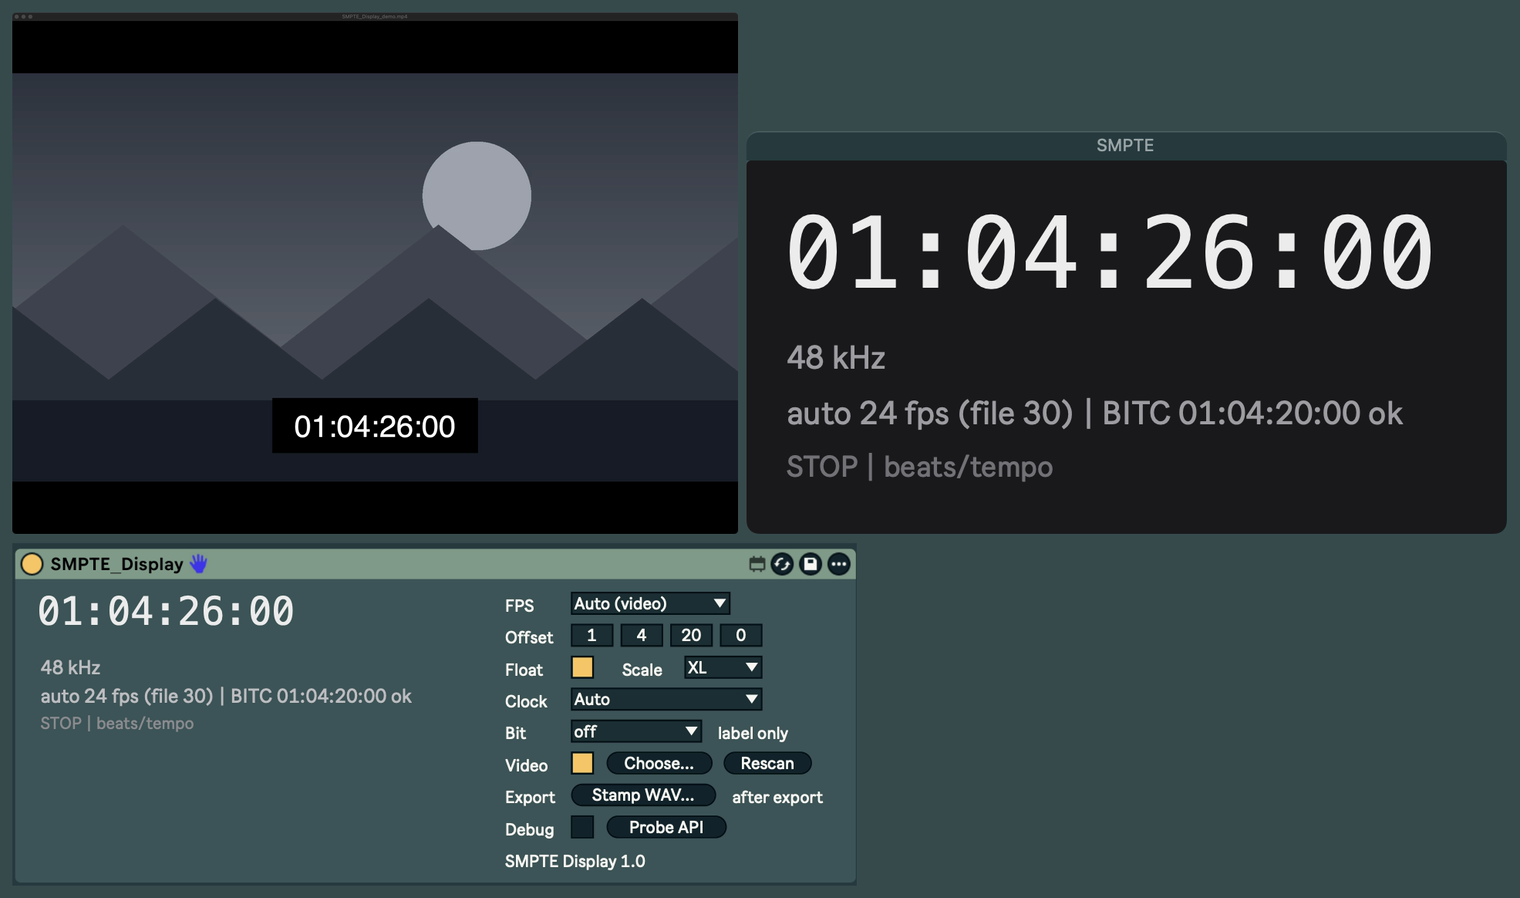
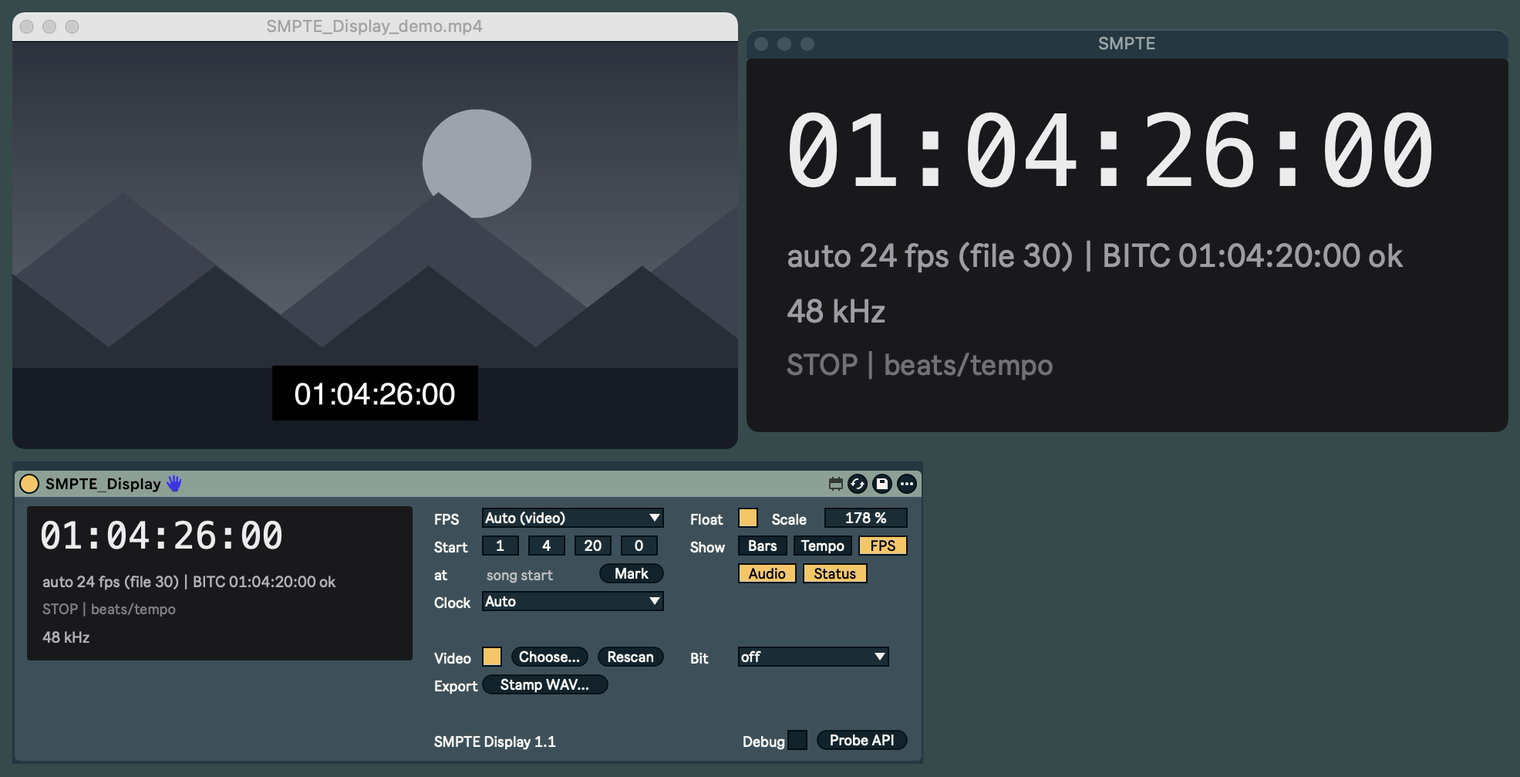
SMPTE Display 1.1 docs: Start TC on a chosen bar, Display lines, Display Scale
README (KO/EN), changelog and screenshot for 1.1.

diff --git a/README.en.md b/README.en.md
@@ -4,7 +4,7 @@
 
 **A Max for Live device for use with Ableton Live 12** that shows SMPTE timecode in a floating window over the Arrangement View — type a timecode to jump straight there.
 
-[![Version](https://img.shields.io/badge/version-1.0-blue)](https://github.com/emile-lab/SMPTE-Display/releases/latest)
+[![Version](https://img.shields.io/badge/version-1.1-blue)](https://github.com/emile-lab/SMPTE-Display/releases/latest)
 [![Requires Ableton Live 12 + Max for Live](https://img.shields.io/badge/requires-Ableton%20Live%2012%20%2B%20Max%20for%20Live-black)](https://www.ableton.com/live/max-for-live/)
 [![macOS](https://img.shields.io/badge/macOS-11%2B-lightgrey)](#requirements)
 [![License](https://img.shields.io/badge/license-All%20Rights%20Reserved-red)](LICENSE)
@@ -13,14 +13,14 @@
 
 <img src="docs/images/screenshot.png" alt="SMPTE Display floating window and device panel" width="760">
 
-### [⬇ Download 1.0](https://github.com/emile-lab/SMPTE-Display/releases/latest)
+### [⬇ Download 1.1](https://github.com/emile-lab/SMPTE-Display/releases/latest)
 
 <sub>By downloading or using SMPTE Display you agree to the [LICENSE](LICENSE).</sub>
 
 </div>
 
 > [!NOTE]
-> Bug reports and feedback are welcome in [Issues](https://github.com/emile-lab/SMPTE-Display/issues/new/choose). The device panel shows the version at the bottom (`SMPTE Display 1.0`).
+> Bug reports and feedback are welcome in [Issues](https://github.com/emile-lab/SMPTE-Display/issues/new/choose). The device panel shows the version at the bottom (`SMPTE Display 1.1`).
 
 ---
 
@@ -28,10 +28,11 @@
 
 | Feature | Description |
 |---|---|
-| 🕒 **Floating timecode window** | Shows the current position as `HH:MM:SS:FF` in a small window above Live. Sizes S / M / L / XL. |
+| 🕒 **Floating timecode window** | Shows the current position as `HH:MM:SS:FF` in a small window above Live. Pick which lines to show (bars, tempo, FPS, audio, status) and drag the window corner to resize it (50–400 %). |
+| 📍 **Start TC on any bar** | The locator whose name starts with `SMPTE` is where the Start TC (e.g. `01:00:00:00`) sits. Click a bar and press **Mark** to create it; drag the locator and the timecode follows. The bars before it run as pre-roll (`00:59:52:00` …). |
 | ⌨ **Locate by timecode** | Click the window, type `01:23:45:12`, press **Enter** to jump. **Space** jumps and starts playback. |
 | 🎬 **Video FPS detection** | Uses the frame rate of the video clip (MOV / MP4 / M4V) in your Arrangement. |
-| 🔎 **Burned-in timecode (BITC) reading** | Reads the timecode printed in the video picture, sets the Offset and FPS for you, and shows `sync OK` while playing. Follows the on-screen timecode **even when it runs at another rate than the file** (e.g. 24 fps burn-in in a 30 fps file). *(macOS)* |
+| 🔎 **Burned-in timecode (BITC) reading** | Reads the timecode printed in the video picture, sets the Start TC and FPS for you, and shows `sync OK` while playing. Follows the on-screen timecode **even when it runs at another rate than the file** (e.g. 24 fps burn-in in a 30 fps file). *(macOS)* |
 | 📤 **Export timecode** | Writes a standard BWF timestamp (EBU Tech 3285) into WAV files exported from Live, so editors and DAWs that spot files to their original timestamp place them at the picture's timecode. Your Live Set is not touched. |
 | 🎯 **Frame accurate** | Even when you stop or click exactly on a frame boundary, the display shows the same frame as Live's video window. The playhead is never moved, so your clip selection stays put. |
 | 📈 **Tempo automation aware** | Displays and locates by real elapsed time, even across tempo ramps. |
@@ -50,13 +51,13 @@ Frame rates: 23.976 · 24 · 25 · 29.97 (NDF / DF) · 30 · 50 · 59.94 (NDF / 
 ## Install (3 steps)
 
 **1. Download and unzip.**
-Get `SMPTE_Display_1.0.zip` from [Releases](https://github.com/emile-lab/SMPTE-Display/releases/latest) and unzip it.
+Get `SMPTE_Display_1.1.zip` from [Releases](https://github.com/emile-lab/SMPTE-Display/releases/latest) and unzip it.
 
 **2. Remove the macOS quarantine flag.** *(needed for burned-in timecode reading)*
 macOS quarantines downloaded files, which stops the timecode reader (`bitc_reader`) from running. Open **Terminal** and run the command below, adjusting the path to where you unzipped it:
 
 ```bash
-xattr -dr com.apple.quarantine ~/Downloads/SMPTE_Display_1.0
+xattr -dr com.apple.quarantine ~/Downloads/SMPTE_Display_1.1
 ```
 
 **3. Copy to your User Library and add it to a track.**
@@ -96,13 +97,27 @@ xattr -dr com.apple.quarantine ~/Downloads/SMPTE_Display_1.0
 | **Space** (not typing) | Play / stop |
 | **Esc** | Cancel input (also cancels after 10 s without typing). |
 
+### Start TC on a chosen bar
+
+To put `01:00:00:00` on bar 5 and use the bars before it as pre-roll, as in film work:
+
+1. Set **FPS** and **Start** (e.g. `01:00:00:00`).
+2. Stop playback, click bar 5 in the Arrangement and press **Mark**. A locator named `SMPTE 01:00:00:00` appears there.
+3. Bar 5 now reads `01:00:00:00` and bar 1 reads that much earlier (`00:59:52:00` at 120 BPM in 4/4). Drag the locator and the timecode follows; Undo works as usual.
+
+- You can also make the locator yourself, with any name that starts with `SMPTE` (e.g. `SMPTE reel 2`). With several, the earliest one is used.
+- When you change Start, a name the device gave (`SMPTE 01:00:00:00`) follows it; a name you typed is kept. The device never deletes or moves a locator.
+- Without such a locator the song start is the reference (like the Offset in 1.0).
+- With tempo automation, playback has to pass the locator once before its time is exact; until then the status line shows `~ start (play past the SMPTE locator)`.
+
 ### Device controls
 
 | Control | Description |
 |---|---|
 | **FPS** | Timecode frame rate. `Auto (video)` follows the burned-in timecode, else the video file. |
-| **Offset** | Timecode at timeline zero (e.g. `01:00:00:00`). Set automatically when burned-in timecode is found. |
-| **Float** / **Scale** | Floating window on/off / size (S · M · L · XL) |
+| **Start** / **Mark** | Start TC: the timecode at the `SMPTE` locator, or at the song start without one (e.g. `01:00:00:00`). **Mark** creates that locator at the bar you clicked. Set automatically when burned-in timecode is found. |
+| **Float** / **Scale** | Floating window on/off / size 50–400 %. Drag the number or the window corner. |
+| **Show** | Lines in the floating window: **Bars**, **Tempo** (tempo and time signature), **FPS**, **Audio**, **Status**. All off leaves the timecode alone. |
 | **Clock** | How time is computed. Leave on `Auto` in most cases. |
 | **Bit** | Bit-depth label for display only — Live does not expose the real value. |
 | **Choose…** / **Rescan** | Pick a video file yourself / search the Arrangement for video again. |
@@ -110,11 +125,11 @@ xattr -dr com.apple.quarantine ~/Downloads/SMPTE_Display_1.0
 
 ## Burned-in timecode (BITC) — macOS
 
-If the video picture has a timecode burned in, the device reads eleven frames and **sets the Offset automatically.** The on-screen timecode wins when it runs at another rate than the file (e.g. a 24 fps edit exported as 30 fps, repeating every 5th frame): FPS `Auto` uses the on-screen rate, and inside the video clip the display shows **exactly what the picture shows, repeated frames included.** Typing a timecode goes to the first frame that shows it.
+If the video picture has a timecode burned in, the device reads eleven frames and **sets the Start TC automatically.** With an `SMPTE` locator, the burned-in timecode at that locator becomes the Start TC. The on-screen timecode wins when it runs at another rate than the file (e.g. a 24 fps edit exported as 30 fps, repeating every 5th frame): FPS `Auto` uses the on-screen rate, and inside the video clip the display shows **exactly what the picture shows, repeated frames included.** Typing a timecode goes to the first frame that shows it.
 
 | Info line | Meaning |
 |---|---|
-| `BITC 00:59:56:00 ok` | Read successfully; Offset applied. |
+| `BITC 00:59:56:00 ok` | Read successfully; Start TC applied. |
 | `auto 24 fps (file 30)` | The picture counts 24 fps, the file is 30 fps; the display follows the picture. |
 | `BITC mismatch 8/11` | Readings disagree; nothing applied. |
 | `BITC 24 fps != 30 fps` | You chose an FPS that differs from the burn-in. Set FPS to `Auto (video)` and it follows the picture at once. |
@@ -122,7 +137,7 @@ If the video picture has a timecode burned in, the device reads eleven frames an
 | `sync OK` / `sync +2 fr` | Sync status during playback (checked about every 5 s). |
 | `clip off frame grid` | The video clip sits between frame boundaries. Turn on snap and align it to the grid. |
 
-When you reopen a saved Set, **the saved Offset is kept**, so a value you adjusted by hand survives. Press **Rescan** to apply the burn-in value instead.
+When you reopen a saved Set, **the saved Start TC is kept**, so a value you adjusted by hand survives. Press **Rescan** to apply the burn-in value instead.
 
 ## Export timecode (BWF timestamp)
 
@@ -133,7 +148,7 @@ WAV files exported by Live carry no timecode, so editors and other DAWs put them
 3. The status line shows the result, e.g. `TC 01:04:23:10 stamped: 5 WAVs (video clip)`. The names of the stamped files go to the Max Console.
 
 - **Your Live Set is not changed** — clips, automation and track sync stay exactly as they are, and the audio data is not altered by a single byte. Only timecode information is added to the files.
-- The timestamp is **sample-accurate**: it is the first sample inside the labelled frame. When the Offset came from the burned-in timecode, it is computed from the video's actual position, even for a clip placed between frame lines.
+- The timestamp is **sample-accurate**: it is the first sample inside the labelled frame. When the Start TC came from the burned-in timecode, it is computed from the video's actual position, even for a clip placed between frame lines.
 - **Finding the Render Start:** Live does not tell devices the export range.
   - A time selection moves the start marker to its start, so the **start marker** is used.
   - An export whose length equals the whole Set starts at **0**.
@@ -199,9 +214,9 @@ WAV files exported by Live carry no timecode, so editors and other DAWs put them
 </details>
 
 <details>
-<summary><b>The status line says <code>offset invalid</code></b></summary>
+<summary><b>The status line says <code>start TC invalid</code></b></summary>
 
-The Offset's frame value is beyond the selected FPS (e.g. frame 30 at 24 fps). Typed timecodes are refused until it is fixed. Correct the last (frame) field of the Offset.
+The Start frame value is beyond the selected FPS (e.g. frame 30 at 24 fps). Typed timecodes and Mark are refused until it is fixed. Correct the last (frame) field of Start.
 </details>
 
 <details>

diff --git a/CHANGELOG.md b/CHANGELOG.md
@@ -1,5 +1,53 @@
 # 변경 내역 · Changelog
 
+## 1.1 — 2026-11-17
+
+Start TC를 원하는 마디에 둘 수 있고, 플로팅 창에 띄울 정보와 크기를 고를 수 있습니다.
+
+### 새 기능
+- **원하는 마디에 Start TC.** 이름이 `SMPTE`로 시작하는 Arrangement 로케이터 자리가 Start TC가 됩니다(1.0의 Offset). 재생을 멈추고 마디를 클릭한 뒤 **Mark**를 누르면 그 자리에 `SMPTE 01:00:00:00` 로케이터가 생깁니다. 로케이터를 끌어 옮기면 기준도 따라가고, Live의 Undo로 되돌릴 수 있습니다. 로케이터가 없으면 1.0처럼 노래 시작이 기준입니다.
+- Start를 바꾸면 디바이스가 붙인 로케이터 이름도 따라 바뀝니다. 직접 붙인 이름(예: `SMPTE reel 2`)은 그대로 둡니다. 디바이스는 로케이터를 지우거나 옮기지 않습니다.
+- 번인 타임코드: 로케이터가 있으면 그 자리의 번인 타임코드가 Start TC가 되고, 번인 값을 쓰는 동안 로케이터를 옮기면 따라갑니다.
+- 템포 오토메이션이 있는 곡에서도 로케이터에서 정확히 Start TC로 바뀝니다. 재생이 로케이터를 한 번 지나가기 전에는 상태 줄에 `~ start (play past the SMPTE locator)`가 보입니다.
+- **Display 항목.** 플로팅 창에 띄울 줄을 고릅니다: Bars(`5.1.1`), Tempo(`120 BPM  4/4`), FPS, Audio, Status. 모두 끄면 타임코드만 남습니다.
+- **Display Scale.** S / M / L / XL 메뉴 대신 50–400 %입니다. 패널 숫자를 끌거나 창 모서리를 끌어 바꾸고, 손을 떼면 창이 그 크기의 배치에 맞춰집니다(Undo 한 단계).
+- 디바이스 패널을 다시 배치했습니다. 버튼 설명은 Live의 Info View에 나옵니다.
+
+### 수정
+- 템포 오토메이션 구간을 재생하며 잰 시간이 약 16 ms 늦던 문제. 이동, 번인 Start TC, Stamp WAV에 영향이 있었습니다.
+- 템포 오토메이션 구간에서 이동하는 중에 재생을 누르면 시작 위치가 늦던 문제.
+- Start가 저장된 Set을 영상 없이 연 뒤 영상을 넣으면, 첫 번인 타임코드가 적용되지 않던 문제.
+- FPS 메뉴를 번인과 같은 레이트로 바꿔도 손으로 맞춘 Start를 덮어쓰지 않습니다. 번인 값은 FPS를 `Auto (video)`로 돌릴 때 적용됩니다.
+- 같은 영상이 두 트랙에 있으면 가장 앞의 클립을 기준으로 합니다.
+- VideoAuto를 끄면 찾았던 영상 정보를 지웁니다.
+- 템포 오토메이션 구간에서 Set 끝 너머로 이동하면 Set을 필요한 만큼만 늘립니다. 이전에는 Set 길이가 두 배가 될 수 있었습니다.
+- 템포 오토메이션 구간에서 재생 중 이동할 때 Live가 멈추지 않으면, 소리가 나는 동안 재생 헤드를 여러 번 옮기지 않고 `could not stop playback for the seek`를 보여 줍니다.
+- 디바이스를 다시 불러오면 진행 중이던 이동을 버립니다. 이전에는 표시가 멈추거나, 나중에 Enter만 눌러도 재생이 시작될 수 있었습니다.
+
+### 1.0에서 업데이트할 때
+- Offset 값은 Start로 그대로 이어집니다. `SMPTE` 로케이터가 없으면 동작도 1.0과 같습니다.
+- Scale 설정은 100 %(1.0의 M)로 돌아갑니다.
+- 플로팅 창의 줄 순서가 Audio → FPS에서 FPS → Audio로 바뀌었습니다.
+- Set에 있는 디바이스를 지우고 다시 올려 주세요. 패널 아래쪽에 `SMPTE Display 1.1`이 보이면 새 버전입니다.
+
+### 검증
+- 단위 테스트 221개 통과.
+- 실제 Ableton Live 12.4.6 · Max 9.1.5(macOS 15.7, Apple Silicon)에서 자동 통합 테스트: Max Console 에러 0건, 정지 위치 비교 1개(아래 알려진 한계)를 뺀 자동 판정 항목 모두 통과. 실제 키 입력이나 모니터 분리처럼 자동화할 수 없는 9개는 1.0과 같은 수동 확인 항목입니다.
+- 로케이터를 마우스로 끌어 옮기기와 Live의 Undo, 창 모서리를 아주 크게 끌고 멈췄다 놓기, 패널의 Scale 숫자를 400 %까지 끌기는 실제 Live에서 마우스로 확인했습니다.
+
+### 알려진 한계
+- 프레임이 끝나기 전 약 15 ms 안에서 정지하면 Live 영상 창이 1프레임 앞을 보여 줄 때가 있습니다(1.0과 같음).
+
+### What's new in 1.1 (English)
+- **Start TC on any bar.** The Arrangement locator whose name starts with `SMPTE` is where the Start TC (the Offset in 1.0) sits. Stop, click a bar and press **Mark** to create `SMPTE 01:00:00:00` there. Drag the locator and the timecode follows; Live's Undo works. Without such a locator the song start is the reference, as in 1.0. A name the device gave follows Start; a name you typed is kept. The device never deletes or moves a locator.
+- Burned-in timecode: with a locator, the burn-in label at the locator becomes the Start TC and follows the locator while the burn-in value is in use. With tempo automation the switch to Start TC is exact once playback has passed the locator.
+- **Display lines.** Pick what the floating window shows: Bars, Tempo, FPS, Audio, Status. All off leaves the timecode alone.
+- **Display Scale.** 50–400 % instead of S / M / L / XL. Drag the panel number or the window corner; the window settles on the matching layout when you let go (one Undo step).
+- Redesigned device panel; control hints are in Live's Info View.
+- Fixed: tempo-ramp timing measured during playback ran about 16 ms late; a late start after pressing play during a tempo-ramp locate; the first burn-in not applied when a Set saved with a Start TC was opened without video; the FPS menu overwriting a hand-set Start; two copies of a movie on two tracks (the earliest clip now wins); VideoAuto off keeping video state; locates past the Set end doubling the Set under tempo automation; repeated playhead moves when Live would not stop; a stuck display after a device reload.
+- Tested in Ableton Live 12.4.6 with Max 9.1.5 (macOS 15.7, Apple Silicon): 221 unit tests pass; every automated check in Live passes except one stop-position comparison (the known limitation), with no Max Console errors. Dragging the locator with the mouse, Live's Undo, dragging the window corner very large and holding it still, and dragging Scale to 400 % were checked by hand in Live.
+- Updating from 1.0: the Offset carries over as Start; Scale resets to 100 % (the old M); the window shows FPS above Audio. Delete and re-add the device in your Set; the panel shows `SMPTE Display 1.1`.
+
 ## 1.0 — 2026-11-01
 
 정식 버전입니다. Beta 0.4 이후 사용자 파일의 안전과 동작 오류를 중심으로 코드를 점검하고 고쳤습니다.
